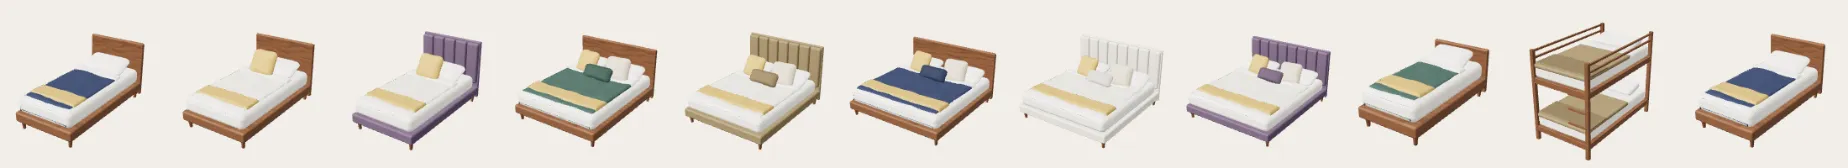
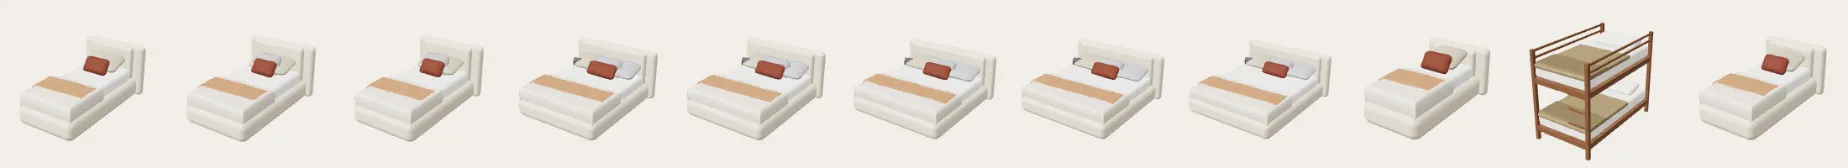
床改成包覆式軟床：兩層圓弧床頭、布包床架、床尾雙披毯、鏽紅腰枕
Claude-Session: https://claude.ai/code/session_01DPbMHcao9tPiyFSu6sUn7z

Changed region(s): [[0.0, 0.1786, 0.8328, 0.8631], [0.8945, 0.2083, 1.0, 0.8333]]

diff --git a/js/plan.js b/js/plan.js
@@ -1,9 +1,9 @@
 // 新板東京 A1（11F）：依平面圖描出的牆、窗、地坪（單位 cm）
-import { PLAN_HH } from './plan-hh.js?v=20261117a';
-import { PLAN_XS } from './plan-xs.js?v=20261117a';
-import { PLAN_WX_A1 } from './plan-wx-a1.js?v=20261117a';
-import { PLAN_WX_A2 } from './plan-wx-a2.js?v=20261117a';
-import { PLAN_WX_B1 } from './plan-wx-b1.js?v=20261117a';
+import { PLAN_HH } from './plan-hh.js?v=20261118a';
+import { PLAN_XS } from './plan-xs.js?v=20261118a';
+import { PLAN_WX_A1 } from './plan-wx-a1.js?v=20261118a';
+import { PLAN_WX_A2 } from './plan-wx-a2.js?v=20261118a';
+import { PLAN_WX_B1 } from './plan-wx-b1.js?v=20261118a';
 
 const PLAN_A1 = {"H":280,"W":1248,"D":909.3,"walls":[[108.0,0.0,232.0,16.0,0,280],[232.0,0.0,372.0,16.0,0,70],[232.0,0.0,372.0,16.0,240,280],[372.0,0.0,461.3,16.0,0,280],[461.3,0.0,641.3,16.0,0,70],[461.3,0.0,641.3,16.0,240,280],[641.3,0.0,725.3,16.0,0,280],[725.3,0.0,905.3,16.0,0,70],[725.3,0.0,905.3,16.0,240,280],[905.3,0.0,1028.0,16.0,0,280],[108.0,0.0,205.3,106.7,0,280],[925.3,0.0,1028.0,96.0,0,280],[108.0,846.7,208.0,909.3,0,280],[928.0,846.7,1028.0,909.3,0,280],[108.0,106.7,125.3,329.3,0,280],[0.0,329.3,14.7,346.7,0,280],[14.7,329.3,78.7,346.7,0,120],[14.7,329.3,78.7,346.7,180,280],[0.0,346.7,14.7,669.3,0,280],[158.7,426.7,172.0,606.7,0,280],[172.0,426.7,561.3,440.0,0,280],[238.7,440.0,245.3,606.7,0,280],[548.0,440.0,558.7,520.0,0,280],[548.0,520.0,558.7,606.7,210,280],[554.7,326.7,565.3,426.7,210,280],[436.0,16.0,448.0,316.0,0,280],[436.0,316.0,561.3,326.7,0,280],[561.3,316.0,648.0,326.7,210,280],[648.0,16.0,661.3,326.7,0,280],[14.7,606.7,245.3,620.0,0,280],[245.3,606.7,265.3,620.0,0,280],[265.3,606.7,352.0,620.0,210,280],[368.0,606.7,561.3,620.0,0,280],[561.3,606.7,648.0,620.0,210,280],[648.0,606.7,661.3,620.0,0,280],[661.3,606.7,734.7,620.0,210,280],[734.7,606.7,832.0,620.0,0,280],[354.7,620.0,368.0,689.3,0,280],[354.7,689.3,368.0,826.7,0,70],[354.7,689.3,368.0,826.7,240,280],[354.7,826.7,368.0,893.3,0,280],[648.0,620.0,661.3,893.3,0,280],[818.7,620.0,832.0,893.3,0,280],[208.0,893.3,928.0,909.3,0,280],[1028.0,893.3,1248.0,909.3,0,280],[948.0,96.0,968.0,726.7,0,280],[968.0,709.3,1248.0,726.7,0,280],[1234.7,726.7,1248.0,740.0,0,280],[1234.7,740.0,1248.0,846.7,210,280],[1234.7,846.7,1248.0,893.3,0,280],[108.0,620.0,116.0,846.7,0,110],[8.0,661.3,108.0,669.3,0,110],[78.7,329.3,185.3,346.7,0,280],[172.0,346.7,185.3,426.7,210,280],[352.0,606.7,368.0,620.0,0,280]],"cuts":[[25],[28],[26,27],[20],[21],[22,23],[32]],"wins":[[232.0,0.0,372.0,16.0,70,240],[461.3,0.0,641.3,16.0,70,240],[725.3,0.0,905.3,16.0,70,240],[14.7,329.3,78.7,346.7,120,180],[354.7,689.3,368.0,826.7,70,240]],"floors":[[125.3,16.0,436.0,326.7,"main"],[185.3,326.7,561.3,426.7,"main"],[448.0,16.0,648.0,316.0,"main"],[561.3,316.0,648.0,326.7,"main"],[661.3,16.0,948.0,326.7,"main"],[561.3,326.7,948.0,620.0,"main"],[832.0,620.0,948.0,893.3,"main"],[368.0,620.0,648.0,893.3,"main"],[548.0,520.0,558.7,606.7,"main"],[14.7,346.7,158.7,606.7,"bath"],[661.3,620.0,818.7,893.3,"bath"],[172.0,440.0,238.7,606.7,"main"],[245.3,440.0,548.0,606.7,"main"],[948.0,726.7,1234.7,893.3,"main"],[116.0,620.0,354.7,893.3,"balc"],[8.0,620.0,108.0,661.3,"balc"],[265.3,606.7,352.0,620.0,"balc"],[158.7,346.7,172.0,426.7,"bath"],[172.0,346.7,185.3,426.7,"main"]],"slab":[[108.0,0.0,968.0,909.3],[0.0,329.3,108.0,669.3],[968.0,709.3,1248.0,909.3]],"rooms":[{"id":"ld","n":"客餐廳","rs":[[661.3,16.0,948.0,326.7],[561.3,326.7,948.0,620.0]],"r":[561.3,16.0,948.0,620.0]},{"id":"master","n":"主臥","rs":[[125.3,16.0,436.0,326.7],[172.0,326.7,561.3,426.7]],"r":[125.3,16.0,561.3,426.7]},{"id":"bed2","n":"臥室 2","rs":[[448.0,16.0,648.0,326.7]],"r":[448.0,16.0,648.0,326.7]},{"id":"bed3","n":"臥室 3","rs":[[368.0,620.0,648.0,893.3]],"r":[368.0,620.0,648.0,893.3]},{"id":"kitchen","n":"廚房","rs":[[172.0,440.0,558.7,606.7]],"r":[172.0,440.0,558.7,606.7]},{"id":"bath1","n":"主臥衛浴","rs":[[14.7,346.7,172.0,606.7]],"r":[14.7,346.7,172.0,606.7]},{"id":"bath2","n":"客用衛浴","rs":[[661.3,620.0,818.7,893.3]],"r":[661.3,620.0,818.7,893.3]},{"id":"foyer","n":"玄關","rs":[[832.0,620.0,948.0,893.3],[948.0,726.7,1234.7,893.3]],"r":[832.0,620.0,1234.7,893.3]},{"id":"balcony","n":"陽台","rs":[[116.0,620.0,354.7,893.3]],"r":[116.0,620.0,354.7,893.3]}],"defaults":[{"id":"d0","key":"sofa:5","x":900.0,"y":242.7,"r":90},{"id":"d1","key":"coffee:0","x":778.7,"y":242.7,"r":0},{"id":"d2","key":"tvcab:3","x":681.3,"y":233.3,"r":270},{"id":"d3","key":"tv:4","x":666.7,"y":233.3,"r":270},{"id":"d4","key":"rug:2","x":805.3,"y":242.7,"r":90},{"id":"d5","key":"lamp:0","x":925.3,"y":109.3,"r":0},{"id":"d6","key":"plant:3","x":921.3,"y":389.3,"r":0},{"id":"d7","key":"dtable:4","x":793.3,"y":478.7,"r":0},{"id":"d8","key":"chair:0","x":756.0,"y":420.0,"r":0},{"id":"d9","key":"chair:0","x":836.0,"y":420.0,"r":0},{"id":"d10","key":"chair:0","x":756.0,"y":556.0,"r":180},{"id":"d11","key":"chair:0","x":836.0,"y":556.0,"r":180},{"id":"d12","key":"bed:3","x":225.3,"y":189.3,"r":270},{"id":"d13","key":"nstand:1","x":148.0,"y":293.3,"r":270},{"id":"d14","key":"ward:5","x":406.7,"y":166.7,"r":90},{"id":"d15","key":"bed:1","x":505.3,"y":116.0,"r":0},{"id":"d16","key":"desk:1","x":617.3,"y":93.3,"r":90},{"id":"d17","key":"dchair:0","x":572.0,"y":93.3,"r":270},{"id":"d18","key":"shelf:1","x":632.0,"y":240.0,"r":90},{"id":"d19","key":"bed:3","x":548.0,"y":806.7,"r":90},{"id":"d20","key":"desk:1","x":398.7,"y":757.3,"r":270},{"id":"d21","key":"dchair:1","x":436.0,"y":757.3,"r":90},{"id":"d22","key":"ward:0","x":412.0,"y":862.7,"r":180},{"id":"d23","key":"cook:0","x":289.3,"y":470.7,"r":0},{"id":"d24","key":"hood:1","x":289.3,"y":465.3,"r":0},{"id":"d25","key":"kcab:2","x":357.3,"y":470.7,"r":0},{"id":"d26","key":"sink:2","x":426.7,"y":470.7,"r":0},{"id":"d27","key":"fridge:2","x":512.0,"y":477.3,"r":0},{"id":"d28","key":"tub:2","x":85.3,"y":570.7,"r":0},{"id":"d29","key":"toilet:1","x":50.7,"y":476.0,"r":270},{"id":"d30","key":"vanity:0","x":38.7,"y":384.0,"r":270},{"id":"d31","key":"mirror:0","x":22.7,"y":384.0,"r":270},{"id":"d32","key":"tub:3","x":740.0,"y":858.7,"r":0},{"id":"d33","key":"toilet:1","x":782.7,"y":720.0,"r":90},{"id":"d34","key":"vanity:0","x":788.0,"y":645.3,"r":0},{"id":"d35","key":"mirror:0","x":788.0,"y":628.0,"r":0},{"id":"d36","key":"washer:0","x":208.0,"y":656.0,"r":0},{"id":"d37","key":"shoe:4","x":1098.7,"y":746.7,"r":0},{"id":"d38","key":"plant:1","x":1205.3,"y":873.3,"r":0}],"door":[1237.3,740.0,1245.3,846.7],"start":[1175,793],"doors":[[1234.7,740.0,106.7,90,180],[648.0,321.3,86.7,180,270],[560.0,426.7,100.0,270,180],[553.3,606.7,86.7,270,180],[178.7,349.3,74.7,90,180],[352.0,613.3,86.7,180,90],[648.0,613.3,86.7,180,90],[661.3,613.3,73.3,0,90]]};
 

diff --git a/js/models.js b/js/models.js
@@ -1,8 +1,8 @@
 // 以程式產生的 3D 家具模型。每件家具都依型錄的實際尺寸（cm）建模，再整體縮成公尺。
 import * as THREE from 'three';
 import { RoundedBoxGeometry } from '../vendor/RoundedBoxGeometry.js';
-import { WOODS, FINISH } from './catalog.js?v=20261117a';
-import * as MT from './mats.js?v=20261117a';
+import { WOODS, FINISH } from './catalog.js?v=20261118a';
+import * as MT from './mats.js?v=20261118a';
 
 function rnd(seed) { let s = seed; return () => (s = (s * 16807) % 2147483647) / 2147483647; }
 function shade(hex, f) { const c = new THREE.Color(hex); c.multiplyScalar(f); return '#' + c.getHexString(); }
@@ -673,29 +673,35 @@ B.sofa = (g, it, P, o) => {
 };
 
 B.bed = (g, it, P, o) => {
+  // 包覆式軟床（參考實景）：厚實圓角布包床架把床墊包起來、兩層軟包床頭、白色床墊、床尾兩條披毯、灰／卡其枕頭＋鏽紅腰枕
   const { w, d, h, v } = it; if (v === 'bunk') return OLD.bed(g, it, P);
   const pick = it.fin === 'fabric' || it.fin === 'leather' || it.fin === 'wood', hc = it.color && it.color[0] === '#' ? it.color : null;
-  const soft = v === 'soft' || (pick && it.fin !== 'wood'), wm = woodOf(P.wood), linen = MT.fabric('#F4F1EA', 5), accent = MT.fabric(P.accent, 6, 'knit');
-  // 手機選的床頭（布面／皮革／木頭）與床單被套顏色
-  const hb = pick ? (it.fin === 'leather' ? MT.leather(hc) : it.fin === 'wood' ? MT.wood(hc, { rings: 6, gloss: 0.3 }) : MT.fabric(hc, 2)) : MT.fabric(it.color || '#B9B2A4', 2);
-  const duv = it.color2 ? MT.fabric(it.color2, 5) : MT.fabric(soft && !pick ? '#EBE6DB' : shade(pick ? '#E3DED4' : it.color || '#E3DED4', 1.08), 5);
-  if (pick && it.fin === 'wood') { rbox(g, w, h - 6, 6, hb, 0, 6 + (h - 6) / 2, -d / 2 + 3, 2.4); }
-  for (const sx of [-1, 1]) for (const sz of [-1, 1]) tleg(g, 13, 3.2, 2.2, wm, sx * (w / 2 - 8), sz * (d / 2 - 9), 0.05, BRASSY());
-  rbox(g, w, 15, d, soft ? hb : pick ? hb : wm, 0, 20.5, 0, 3, 5);
-  if (pick && it.fin === 'wood') { /* 木頭床頭已經畫好 */ } else if (soft) { rbox(g, w, h - 8, 5, hb, 0, 8 + (h - 8) / 2, -d / 2 + 2.5, 2.2); const n = Math.max(3, Math.round(w / 23)), pw = (w - 2) / n; for (let i = 0; i < n; i++) cushion(g, pw - 0.3, 8, h - 38, hb, -(w - 2) / 2 + pw * (i + 0.5), 36 + (h - 38) / 2, -d / 2 + 8, { r: 3.8, bulge: 0.28, pipe: false, sd: i * 2 }).rotation.x = Math.PI / 2; }
-  else rbox(g, w, h - 6, 6, wm, 0, 6 + (h - 6) / 2, -d / 2 + 3, 2.4);
-  const hd = soft ? 13 : 7, md = d - hd - 3, mz = -d / 2 + hd + md / 2 + 1, mw = w - 6;
-  rbox(g, mw, 25, md, linen, 0, 40.5, mz, 9, 6); loop(g, rrPts(mw - 3, md - 3, 8, 49.5).map((p) => p.setZ(p.z + mz)), 0.4, linen);
-  cloth(g, mw + 5, md * 0.7, duv, 0, 55.2, mz + md * 0.15, { amp: 1.5, droop: 20, edge: 13, sd: 4, ends: false });
-  cloth(g, mw + 3, 32, linen, 0, 56.6, mz - md * 0.2, { amp: 0.8, droop: 18, edge: 11, sd: 7, seg: 36 });
-  cloth(g, mw + 6, 50, accent, 0, 57.6, mz + md / 2 - 34, { amp: 1.2, droop: 21, edge: 14, sd: 5 });
-  const np = w >= 140 ? 2 : 1, top = mz - md / 2;
-  for (let i = 0; i < np; i++) {
-    const sx = np === 2 ? (i ? 1 : -1) : 0, px = sx * (mw / 4 - 0.5), pw = np === 2 ? mw / 2 - 12 : mw - 20;
-    pillow(g, pw, 44, 18, linen, px, 60, top + 27, { seam: false, sd: i + 3 }).rotation.x = -Math.PI / 2 + 0.36;
-    if (o.decor && w >= 110) pillow(g, 46, 46, 16, MT.fabric(i ? '#D8CCB8' : P.accent, i ? 2 : 5, i ? 'boucle' : 'linen'), np === 2 ? sx * (mw / 4 - 7) : -8, 69, top + 48, { sd: i * 4 + 6 }).rotation.set(-0.52, sx * 0.14, sx * 0.07);
+  const hb = pick ? (it.fin === 'leather' ? MT.leather(hc) : it.fin === 'wood' ? MT.wood(hc, { rings: 6, gloss: 0.3 }) : MT.fabric(hc, 3, 'boucle')) : MT.fabric('#E2D8C5', 3, 'boucle');   // 床頭＋床架（手機可換布面／皮革／木頭＋顏色）
+  const linen = MT.fabric('#FAF9F6', 5), sheet = it.color2 ? MT.fabric(it.color2, 5) : MT.fabric('#F7F6F2', 5), dk = MT.flat('#2A2A2C', 0.6);
+  const HB = 14, hh = Math.max(72, Math.min(h, 100) - 8);   // 床頭厚度、高度
+  // 床架：離地 6 cm 的圓角布包框，前後左右都包住床墊
+  for (const sx of [-1, 1]) for (const sz of [-1, 1]) box(g, 6, 6, 6, dk, sx * (w / 2 - 16), 3, sz * (d / 2 - 22));
+  const fz = (HB - 4) / 2, fd = d - HB + 4;
+  rbox(g, w, 32, fd, hb, 0, 22, fz, 11, 6);   // 床架上緣比床墊底高，包住床墊下半
+  // 床頭：後層比床寬一點、前層軟墊比較矮，兩層都是很圓的厚墊
+  rbox(g, w + 14, hh, HB, hb, 0, 6 + hh / 2, -d / 2 + HB / 2, 7, 6);
+  rbox(g, w - 18, hh - 30, 11, hb, 0, 32 + (hh - 30) / 2 + 2, -d / 2 + HB + 4, 5.5, 6);
+  // 床墊：白色厚床墊，比床架高出一截
+  const mw = w - 18, md = fd - 18, mz = fz + 3, top = mz - md / 2;
+  rbox(g, mw, 24, md, linen, 0, 44, mz, 7, 6);
+  cloth(g, mw + 3, md * 0.8, sheet, 0, 56.3, mz + md * 0.08, { amp: 0.5, droop: 14, edge: 12, sd: 4, ends: false });
+  // 床尾披毯：米白一條、卡其一條（稍微斜放），兩側自然垂下
+  const ft = mz + md / 2;
+  cloth(g, mw + 30, 104, MT.fabric('#E6DFD2', 5, 'knit'), 0, 57.6, ft - 40, { amp: 0.7, droop: 24, edge: 16, sd: 6 });
+  const cr = cloth(g, mw + 34, 70, MT.fabric('#B08260', 5), -4, 58.6, ft - 50, { amp: 0.8, droop: 26, edge: 18, sd: 8 }); if (cr) cr.rotation.y = 0.04;
+  // 枕頭：靠床頭立著
+  const two = w >= 140, sp = two ? mw / 2 - 10 : mw - 18;
+  for (const sx of two ? [-1, 1] : [0]) pillow(g, sp, 46, 18, MT.fabric(sx > 0 ? '#A9ADB2' : '#B5AA98', 4), sx * (mw / 4), 66, top + 18, { seam: false, sd: 3 + sx }).rotation.x = -Math.PI / 2 + 0.3;
+  if (o.decor) {
+    if (w >= 110) pillow(g, two ? 58 : 46, 38, 14, MT.fabric('#9EA3A8', 4), two ? 10 : 0, 68, top + 32, { sd: 7 }).rotation.set(-0.5, 0.08, 0.04);
+    pillow(g, two ? 62 : 46, 28, 13, MT.fabric('#6E3524', 2, 'linen'), two ? 6 : 0, 66, top + 44, { sd: 9 }).rotation.set(-0.62, -0.05, 0);   // 鏽紅腰枕
+    if (two) { const bo = cyl(g, 7.5, 7.5, 34, MT.fabric('#55595F', 3), -mw / 2 + 22, 64, top + 26, 18); bo.rotation.z = Math.PI / 2; bo.rotation.y = 0.35; }   // 小圓筒枕
   }
-  if (o.decor && w >= 140) pillow(g, 58, 27, 14, MT.fabric(shade(it.color || '#8E9AA6', 0.7), 5), 3, 62.5, top + 67, { sd: 13 }).rotation.x = -0.62;
 };
 
 function vase(g, x, y, z, s = 1, color = '#D9D2C4', stems = 0) {

diff --git a/js/phone.js b/js/phone.js
@@ -1,7 +1,7 @@
 // 手機端：風格、平面圖編輯器、3D 家具型錄、人偶、3D 導覽搖桿
-import { PLAN, UNIT, setUnit, roomAt, setCuts, cutRects } from './plan.js?v=20261117a';
-import { CATS, GROUPS, PEOPLE, getItem, STYLES, FLOOR_GROUPS, FLOORS, WALL_GROUPS, parseWall, FINISH, finishOf, lenRange, elevRange, resolvePeople, keepOffBeds } from './catalog.js?v=20261117a';
-import * as ART from './planart.js?v=20261117a';
+import { PLAN, UNIT, setUnit, roomAt, setCuts, cutRects } from './plan.js?v=20261118a';
+import { CATS, GROUPS, PEOPLE, getItem, STYLES, FLOOR_GROUPS, FLOORS, WALL_GROUPS, parseWall, FINISH, finishOf, lenRange, elevRange, resolvePeople, keepOffBeds } from './catalog.js?v=20261118a';
+import * as ART from './planart.js?v=20261118a';
 
 const $ = (id) => document.getElementById(id);
 const esc = (s) => String(s).replace(/[&<>"]/g, (c) => ({ '&': '&amp;', '<': '&lt;', '>': '&gt;', '"': '&quot;' }[c]));
@@ -452,7 +452,7 @@ function thumbStrip(key, sk) {
 async function fillThumbs() {
   const run = ++thumbRun, need = [...document.querySelectorAll('#list img[data-th]')];
   if (!need.length) return;   // 全部都有現成圖片：不用載入 3D 繪圖程式
-  try { thumbMod = thumbMod || await import('./thumbs.js?v=20261117a'); } catch (e) { return; }
+  try { thumbMod = thumbMod || await import('./thumbs.js?v=20261118a'); } catch (e) { return; }
   for (const img of need) {
     if (run !== thumbRun) return;
     const k = img.dataset.th;
@@ -485,7 +485,7 @@ function warmThumbs() {
 async function warmStep() {
   if (!warmList.length) return;
   if (S.drag || (S.st && S.st.mode === 'tour') || Date.now() - lastTouch < 1500) { warmTimer = setTimeout(warmStep, 600); return; }   // 手指在操作時不畫縮圖，按鈕才不會卡
-  try { thumbMod = thumbMod || await import('./thumbs.js?v=20261117a'); } catch (e) { return; }
+  try { thumbMod = thumbMod || await import('./thumbs.js?v=20261118a'); } catch (e) { return; }
   const k = warmList.shift();
   if (!thumbCache.has(k)) { const [key, sk] = k.split('@'); try { thumbCache.set(k, thumbMod.renderThumb(getItem(key, sk), sk)); } catch (e) { thumbCache.set(k, ''); } }
   warmTimer = setTimeout(warmStep, S.sheet ? 40 : 220);   // 型錄沒打開時慢慢畫就好

diff --git a/js/host.js b/js/host.js
@@ -1,10 +1,10 @@
 // 大螢幕（電腦）端：3D 場景、遊戲流程、手機連線
 import * as THREE from 'three';
 import { RoomEnvironment } from '../vendor/RoomEnvironment.js';
-import { PLAN, UNIT, UNITS, setUnit, roomAt, setCuts, cutRects } from './plan.js?v=20261117a';
-import { getItem, STYLES, FLOORS, WALL_GROUPS, parseWall, FINISH, finishOf, lenRange, elevRange, wallSegs, doorGap, resolvePeople, keepOffBeds } from './catalog.js?v=20261117a';
-import { buildItem, buildPerson, M } from './models.js?v=20261117a';
-import * as MT from './mats.js?v=20261117a';
+import { PLAN, UNIT, UNITS, setUnit, roomAt, setCuts, cutRects } from './plan.js?v=20261118a';
+import { getItem, STYLES, FLOORS, WALL_GROUPS, parseWall, FINISH, finishOf, lenRange, elevRange, wallSegs, doorGap, resolvePeople, keepOffBeds } from './catalog.js?v=20261118a';
+import { buildItem, buildPerson, M } from './models.js?v=20261118a';
+import * as MT from './mats.js?v=20261118a';
 import { EffectComposer } from '../vendor/jsm/postprocessing/EffectComposer.js';
 import { RenderPass } from '../vendor/jsm/postprocessing/RenderPass.js';
 import { GTAOPass } from '../vendor/jsm/postprocessing/GTAOPass.js';

diff --git a/js/thumbs.js b/js/thumbs.js
@@ -1,9 +1,9 @@
 // 手機型錄用的 3D 縮圖：把每件家具的 3D 模型算成一張小圖
 import * as THREE from 'three';
 import { RoomEnvironment } from '../vendor/RoomEnvironment.js';
-import { STYLES } from './catalog.js?v=20261117a';
-import { buildItem, buildPerson } from './models.js?v=20261117a';
-import { setTexSize } from './mats.js?v=20261117a';
+import { STYLES } from './catalog.js?v=20261118a';
+import { buildItem, buildPerson } from './models.js?v=20261118a';
+import { setTexSize } from './mats.js?v=20261118a';
 setTexSize(256);
 
 let R = null, scene, cam;

diff --git a/js/planart.js b/js/planart.js
@@ -1,6 +1,6 @@
 // 手機平面圖的繪製：有材質的地板、粗黑牆、門弧線，以及每種家具的俯視圖（單位 cm，等比例）
-import { PLAN } from './plan.js?v=20261117a';
-import { STYLES, FLOORS, planColor, wallSegs, doorGap } from './catalog.js?v=20261117a';
+import { PLAN } from './plan.js?v=20261118a';
+import { STYLES, FLOORS, planColor, wallSegs, doorGap } from './catalog.js?v=20261118a';
 
 const INK = '#4A4038';
 function tint(hex, f) {   // f > 1 變亮，f < 1 變暗

diff --git a/index.html b/index.html
@@ -85,6 +85,6 @@
   <div id="tip" class="card">3D 畫面為示意，家具與裝潢非交屋附贈，實際以合約為準。</div>
 </div>
 
-<script type="module" src="./js/host.js?v=20261117a"></script>
+<script type="module" src="./js/host.js?v=20261118a"></script>
 </body>
 </html>

diff --git a/phone.html b/phone.html
@@ -189,6 +189,6 @@
   <div class="chips" id="cats"></div>
   <div id="list"></div>
 </div>
-<script type="module" src="./js/phone.js?v=20261117a"></script>
+<script type="module" src="./js/phone.js?v=20261118a"></script>
 </body>
 </html>
